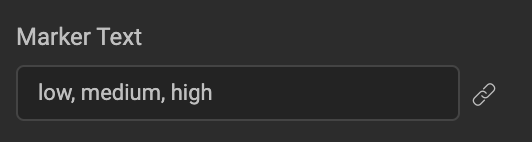
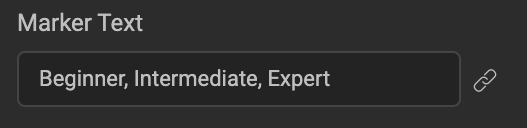
updated customizing slider widget doc

diff --git a/learn/how-tos/customize-slider.md b/learn/how-tos/customize-slider.md
@@ -1,7 +1,7 @@
 ---
-title: "Customize Slider"
+title: "Customizing Slider Widget"
 id: "customize-slider"
-sidebar_label: "Customize Slider"
+sidebar_label: "Customizing Slider Widget"
 ---
 ---
 
@@ -9,7 +9,11 @@ import CustomizeSlider from '/learn/assets/customize-slider.png';
 import sliderCutomizationExample from '/learn/assets/react-native/sliderCutomizationExample.png';
 import sliderLabelPositionExample from '/learn/assets/react-native/sliderLabelPositionExample.png';
 
-The **Slider widget** allows you to display either numeric values or custom labels at specific points along the slider track. Labels can represent categories, ranges, or meaningful names instead of plain numbers. You can also control whether labels appear above or below the slider.  
+The Slider widget allows you to display either numeric values or custom labels at specific points along the slider track. Labels can represent categories, ranges, or meaningful names instead of plain numbers. You can also control whether labels appear above or below the slider.  
+
+<img src={sliderCutomizationExample} alt="Customize Slider Example" style={{maxWidth:"320px"}}/>
+
+_For Example : Here we have configured Slider widget to show three labels `Beginner, Intermediate, Expert`._
 
 ## Configuring Labels with Marker Text
 
@@ -22,9 +26,9 @@ Use the **Marker Text** property to define the labels that appear on the slider.
 
 The **Marker Text** property accepts data in two formats:
 
-### 1. Comma-Separated List (Simple Labels)
+### 1. Comma-Separated List
 
-- Enter labels directly into the property panel as a comma-separated list. Example: `Low, Medium, High`  
+- Enter labels directly into the property panel as a comma-separated list. Example: `Beginner, Intermediate, Expert`  
 
 <img src={CustomizeSlider} alt="Marker Text Property" style={{maxWidth:"320px"}}/>
 
@@ -35,6 +39,8 @@ The **Marker Text** property accepts data in two formats:
 ```
 
 <img src={sliderCutomizationExample} alt="Customize Slider Example" style={{maxWidth:"320px"}}/>
+
+_Slider Widget with configured labels._
 
 ### 2. Array of Objects (Labels with Position)
 
